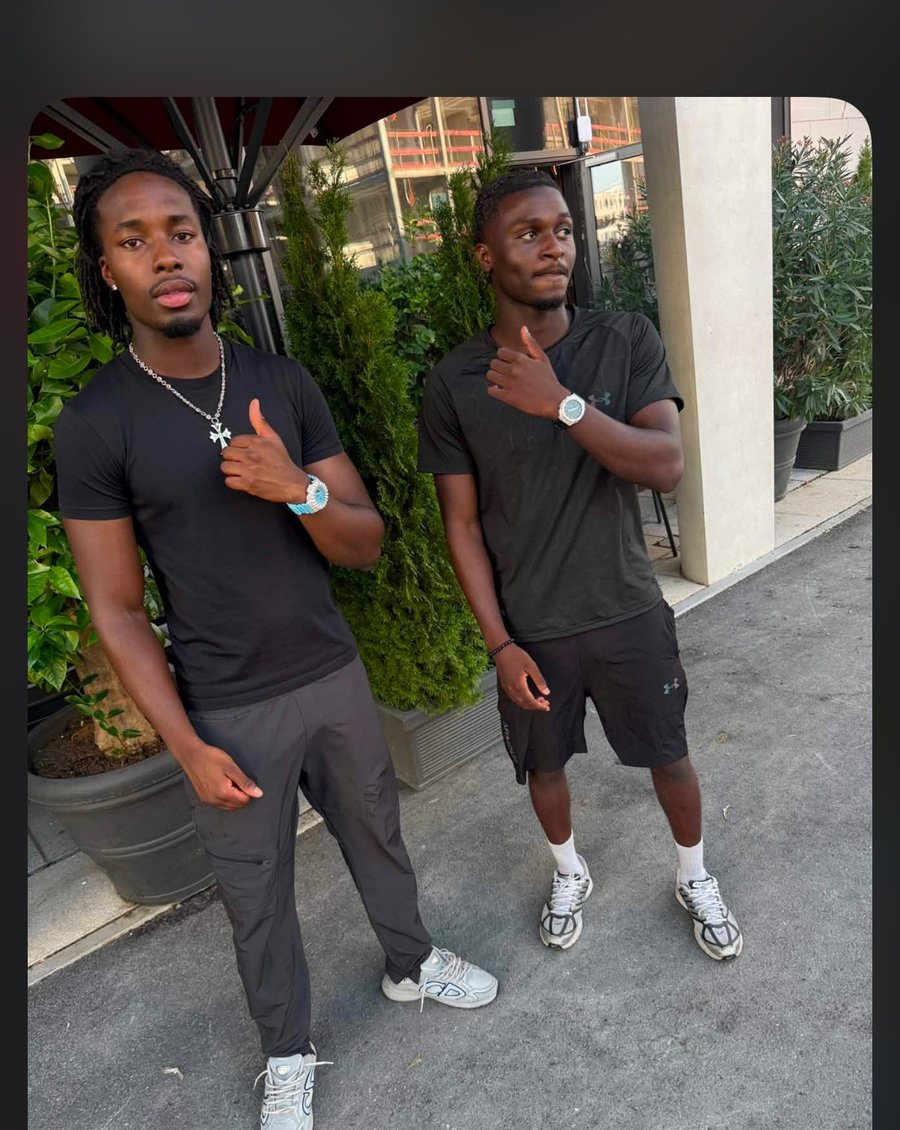
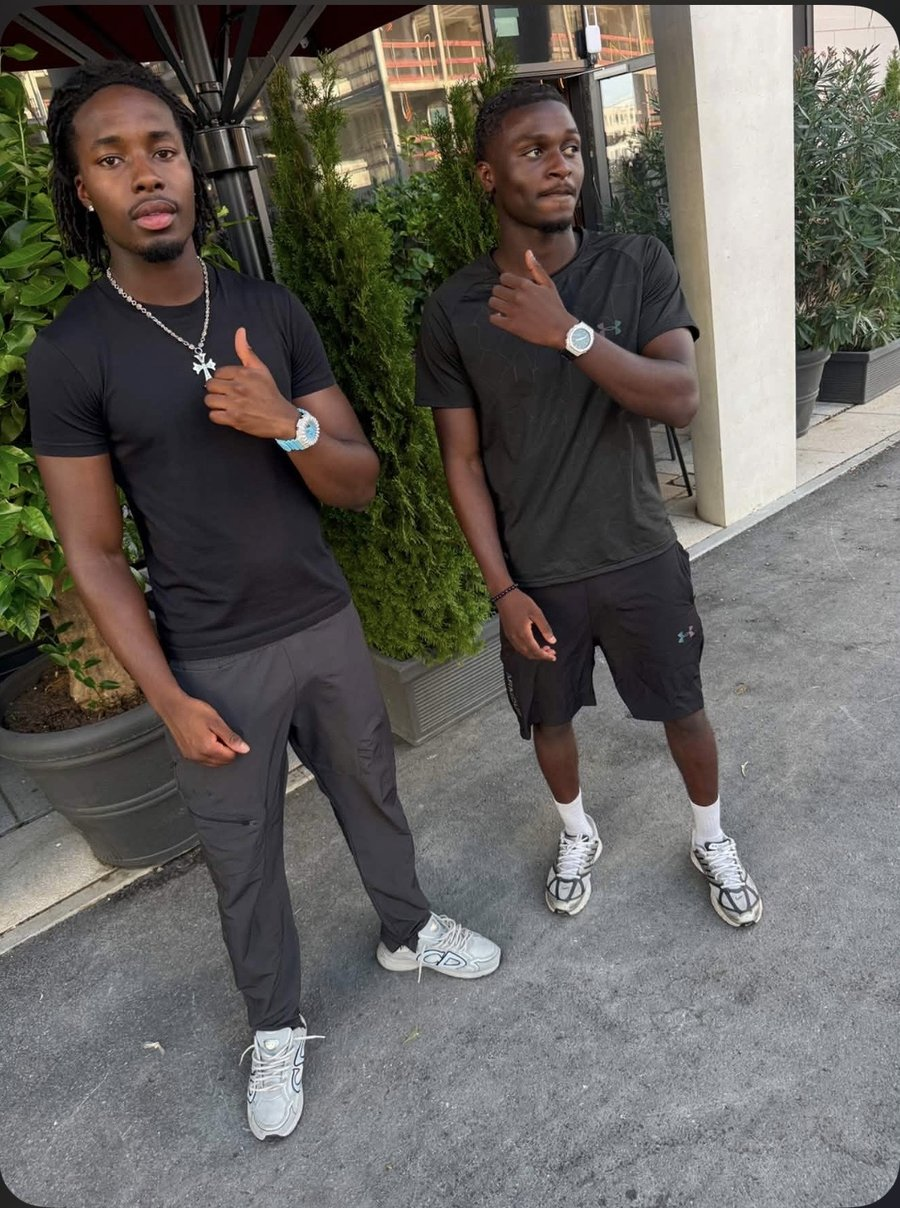
Recrop community photos without screenshot border, add floating spin wheel
Replace community-4.jpg and lafami-group.jpg with cleaner crops that
don't carry the phone screenshot's rounded black bezel. Add a
persistent floating "Spin to Win" wheel button (bottom-left) that
opens the discount wheel modal on demand, instead of only auto-popping
up once per session.

diff --git a/src/components/marketing/SpinToWinModal.tsx b/src/components/marketing/SpinToWinModal.tsx
@@ -62,7 +62,29 @@ export function SpinToWinModal() {
     setOpen(false);
   }
 
-  if (!open) return null;
+  if (!open) {
+    return (
+      <button
+        type="button"
+        onClick={() => setOpen(true)}
+        aria-label="Spin to Win öffnen"
+        className="fixed bottom-6 left-6 z-40 flex h-20 w-20 items-center justify-center rounded-full border-2 border-white/20 shadow-[0_0_25px_rgba(230,229,231,0.25)] transition-transform hover:scale-105"
+      >
+        <span
+          className="absolute inset-0 rounded-full"
+          style={{ background: gradient, animation: "spin-slow 9s linear infinite" }}
+          aria-hidden="true"
+        />
+        <span className="absolute inset-[5px] flex items-center justify-center rounded-full bg-ice-black text-center leading-tight">
+          <span className="text-[0.6rem] font-bold uppercase tracking-wide text-ice-white">
+            Spin
+            <br />
+            to Win
+          </span>
+        </span>
+      </button>
+    );
+  }
 
   return (
     <div

diff --git a/src/app/globals.css b/src/app/globals.css
@@ -139,6 +139,15 @@ body {
   transform: translateY(0);
 }
 
+/* ---------------------------------------------------------
+   Floating "Spin to Win"-Rad unten links (siehe
+   components/marketing/SpinToWinModal.tsx)
+--------------------------------------------------------- */
+@keyframes spin-slow {
+  from { transform: rotate(0deg); }
+  to { transform: rotate(360deg); }
+}
+
 @media (prefers-reduced-motion: reduce) {
   .reveal {
     opacity: 1;

diff --git a/src/components/home/SocialProof.tsx b/src/components/home/SocialProof.tsx
@@ -57,7 +57,7 @@ export function SocialProof() {
       <Reveal delay={150}>
         <div
           className="group relative mx-auto mt-4 w-full max-w-2xl overflow-hidden rounded-xl border border-white/10"
-          style={{ aspectRatio: "1170/1469" }}
+          style={{ aspectRatio: "1000/1668" }}
         >
           <Image
             src="/community/lafami-group.jpg"
